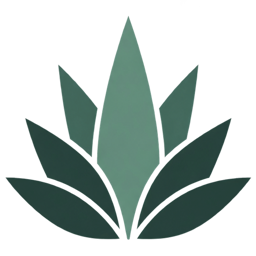
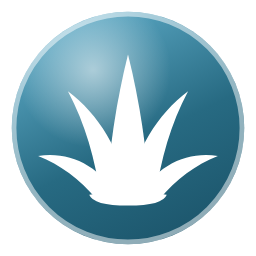
feat(web): one mark, an agave in a dew-glass orb
Replaces the green leaf in the nav, favicon and apple-touch icon; themed by
the dew tokens like the primary button.

diff --git a/packages/web/src/components/BrandMark.tsx b/packages/web/src/components/BrandMark.tsx
@@ -1,0 +1,45 @@
+import { useId } from 'react';
+
+/**
+ * The tagave mark: an agave rosette resting in a dew-glass orb. The same
+ * drawing is the favicon (public/tagave-mark.svg), the landing page mark and
+ * the og image. Colours come from the dew tokens, so it follows the theme the
+ * way the primary button does: a deep drop with a white plant in light mode,
+ * a lit drop with a dark plant in dark mode. It is decorative next to the
+ * live "tagave" wordmark, so it is hidden from assistive technology.
+ */
+export function BrandMark({ className, size = 32 }: { className?: string | undefined; size?: number }) {
+  const id = useId().replace(/:/g, '');
+  return (
+    <svg className={className} width={size} height={size} viewBox="0 0 64 64" aria-hidden="true" focusable="false">
+      <defs>
+        <linearGradient id={`${id}b`} x1="18" y1="4" x2="46" y2="62" gradientUnits="userSpaceOnUse">
+          <stop offset="0" stopColor="var(--dew-hi)" />
+          <stop offset=".55" stopColor="var(--dew)" />
+          <stop offset="1" stopColor="var(--dew-lo)" />
+        </linearGradient>
+        <radialGradient id={`${id}s`} cx="23" cy="17" r="20" gradientUnits="userSpaceOnUse">
+          <stop offset="0" stopColor="#fff" stopOpacity=".55" />
+          <stop offset="1" stopColor="#fff" stopOpacity="0" />
+        </radialGradient>
+      </defs>
+      <circle cx="32" cy="32" r="30" fill={`url(#${id}b)`} />
+      <circle cx="32" cy="32" r="30" fill={`url(#${id}s)`} />
+      <g fill="var(--dew-ink)">
+        {AGAVE.map((d) => <path key={d} d={d} />)}
+      </g>
+      <circle cx="32" cy="32" r="29.4" fill="none" stroke="var(--rim-a)" strokeOpacity=".6" strokeWidth="1.2" />
+    </svg>
+  );
+}
+
+/** The rosette: a tall centre leaf, two rising leaves, two low ones, a base.
+ *  Separate paths, so overlapping leaves never cancel out under the fill rule. */
+export const AGAVE = [
+  'M26.5 50C27 38 29 25 32 13C35 25 37 38 37.5 50Z',
+  'M25 50C23.5 40 21 31 16.5 22.5C24.5 28.5 30 37.5 32.5 50Z',
+  'M39 50C40.5 40 43 31 47.5 22.5C39.5 28.5 34 37.5 31.5 50Z',
+  'M24 50.5C19.5 45 14.5 41.5 8.8 39.2C17 38 24.5 41.5 30 50.5Z',
+  'M40 50.5C44.5 45 49.5 41.5 55.2 39.2C47 38 39.5 41.5 34 50.5Z',
+  'M22 49.2Q32 47.6 42 49.2Q41 52 32 52Q23 52 22 49.2Z',
+];

diff --git a/packages/web/index.html b/packages/web/index.html
@@ -3,8 +3,9 @@
   <head>
     <meta charset="UTF-8" />
     <meta name="viewport" content="width=device-width, initial-scale=1.0" />
-    <link rel="icon" type="image/png" href="/tagave-mark.png" />
-    <link rel="apple-touch-icon" href="/tagave-mark.png" />
+    <link rel="icon" type="image/svg+xml" href="/tagave-mark.svg" />
+    <link rel="icon" type="image/png" sizes="48x48" href="/favicon-48.png" />
+    <link rel="apple-touch-icon" href="/apple-touch-icon.png" />
     <meta name="color-scheme" content="light dark" />
     <!-- Apply the saved theme before first paint so a dark choice never flashes light. Mirrors src/theme.ts. -->
     <script>try{var t=localStorage.getItem('tagave-theme');if(t==='light'||t==='dark')document.documentElement.setAttribute('data-theme',t)}catch(e){}</script>
